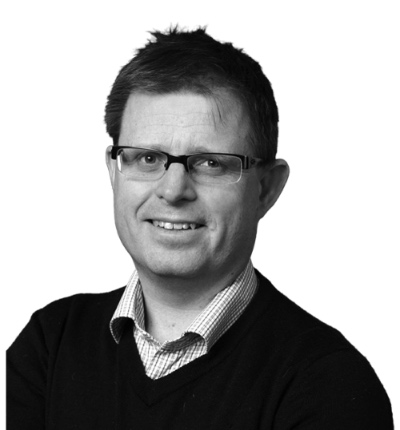
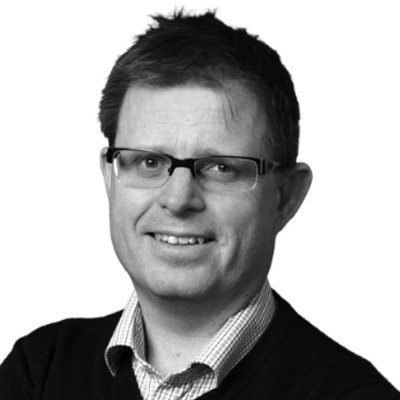
Bildetweaks + et par skriveleifer

diff --git a/frontend/content/stories_ready_for_publication.html b/frontend/content/stories_ready_for_publication.html
@@ -97,7 +97,7 @@
 
 		<div class="interview">
 			<div class="interview-image">
-				<img src="http://www.gravatar.com/avatar/cf05e3270315f53a327a3d43bc80dfc3.jpg?s=512" />
+				<img src="/assets/img/interviews/johannes_brodwall.jpg" />
 			</div>
 			<div class="interview-content">
 				<div class="interview-info">
@@ -135,20 +135,20 @@
 					<span class="twitter">
 						<a href="http://twitter.com/sisomm" target="_blank"><%= partial('assets/svg/twitter.svg') %> @sisomm</a>
 					</span>
-					<h2>Enterprise Archtiect and CTO at Bouvet Oslo</h2>
+					<h2>Enterprise Architect and CTO at Bouvet Oslo</h2>
 				</div>
 				<div class="interview-text">
 					<p>
-						I have attended javazone ever since 2004. Not only is it an important source of competence for me - it is also an alumni where I meet people in the business for gossip and a party!
+						I have attended javazone ever since 2004. Not only is it an important source of competence for me – it is also an alumni where I meet people in the business for gossip and a party!
 					</p>
 					<p>
-						In my view, the conference was instrumental in the tremendous competence lift we had in industry in the Oslo Area during the 2000’s.  From the get-go, JavaZone encouraged local talent to talk alongside with international celebrities. This had a very positive effect on the local java-community: People who could find innovative solutions and identify best practices - and share them - were awarded with fame and peer recognition. As as side effect, many people think of it as a bit daunting. But with the right preparations and coaching it can be a very exciting and rewarding experience - at least it was for me!
+						In my view, the conference was instrumental in the tremendous competence lift we had in industry in the Oslo Area during the 2000’s.  From the get-go, JavaZone encouraged local talent to talk alongside with international celebrities. This had a very positive effect on the local java-community: People who could find innovative solutions and identify best practices – and share them – were awarded with fame and peer recognition. As as side effect, many people think of it as a bit daunting. But with the right preparations and coaching it can be a very exciting and rewarding experience - at least it was for me!
 					</p>
 					<p>
-						I have given two talks at javaZone: In 2013 i was allowed to present our local initiative to <a href="http://jz13.java.no/presentation.html?id=359cd17a">teach children coding</a>, and last year I gave a presentation about the current state of <a href="http://2014.javazone.no/presentation.html?id=a3976bdb">“The Internet of Things”</a>. The people who work behind the scenes are very professional and helpful. I can attest to the quality of the service, since I had rather special needs last year, with a plastic skull, two Arduinos and a Raspberry PI that needed a network connection. 
+						I have given two talks at javaZone: In 2013 I was allowed to present our local initiative to <a href="http://jz13.java.no/presentation.html?id=359cd17a">teach children coding</a>, and last year I gave a presentation about the current state of <a href="http://2014.javazone.no/presentation.html?id=a3976bdb">“The Internet of Things”</a>. The people who work behind the scenes are very professional and helpful. I can attest to the quality of the service, since I had rather special needs last year, with a plastic skull, two Arduinos and a Raspberry PI that needed a network connection. 
 					</p>
 					<p>
-						Two of my favourite presentations in 2014 were Per Jørgen Walstrøm about how he made <a href="http://2014.javazone.no/presentation.html?id=72157526">camels dance (duh.. Camel the integration framework)</a> and Jeff Genender about how <a href="http://2014.javazone.no/presentation.html?id=8a6cfc53">"Building a Country on Open Source Java"</a> - in Ecuador. It makes me wonder what would be possible here in Norway
+						Two of my favourite presentations in 2014 were Per Jørgen Walstrøm about how he made <a href="http://2014.javazone.no/presentation.html?id=72157526">camels dance (duh.. Camel the integration framework)</a> and Jeff Genender about how <a href="http://2014.javazone.no/presentation.html?id=8a6cfc53">"Building a Country on Open Source Java"</a> – in Ecuador. It makes me wonder what would be possible here in Norway
 					</p>
 					<p class="talklinks">
 						See Simens's talk from JavaZone 2014: <br><a href="http://2014.javazone.no/presentation.html?id=a3976bdb"><i class="icon-heart"></i> En realitetsorientering om tingenes internett - og hvordan du kan komme i gang selv</a>
